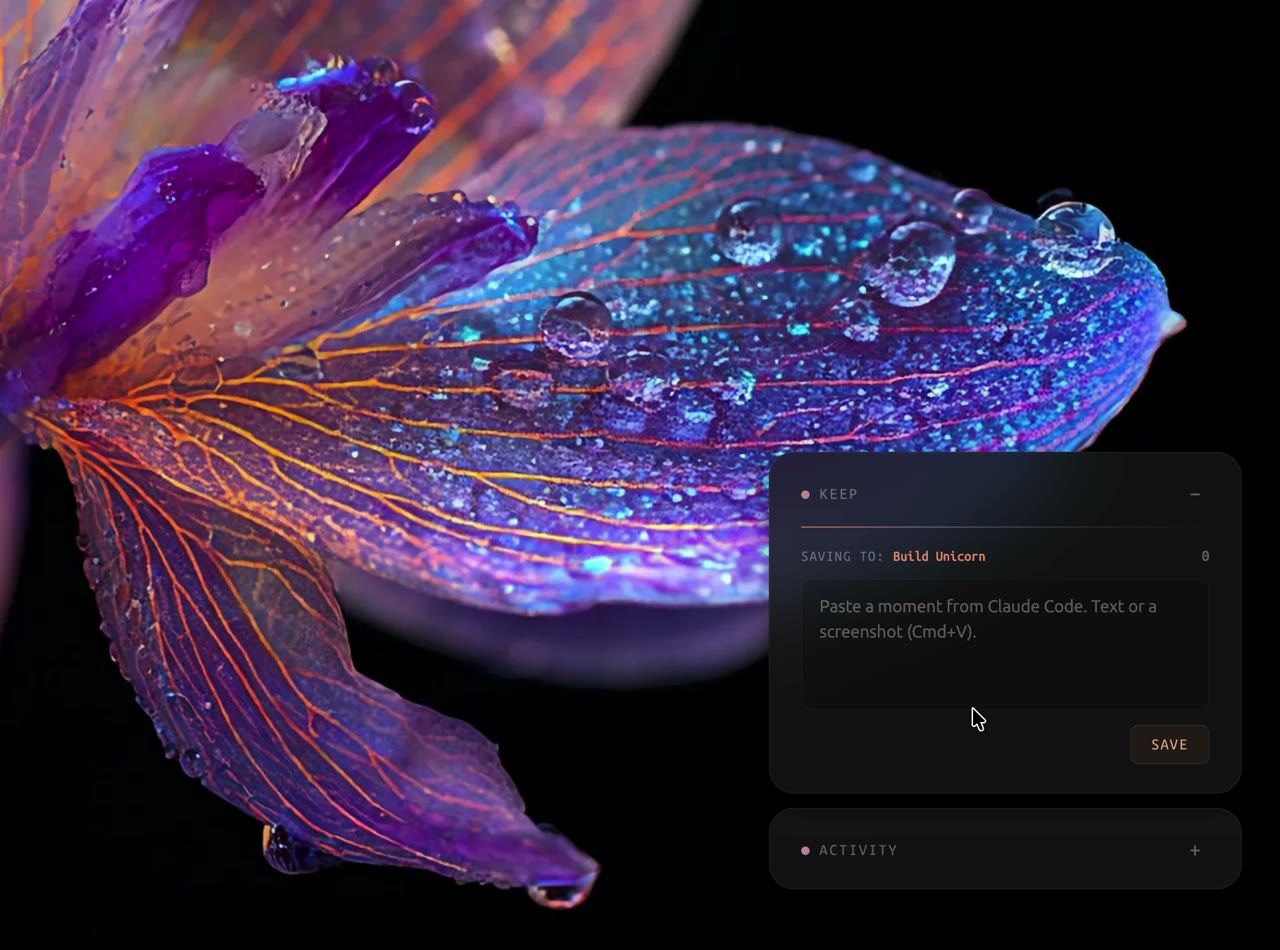
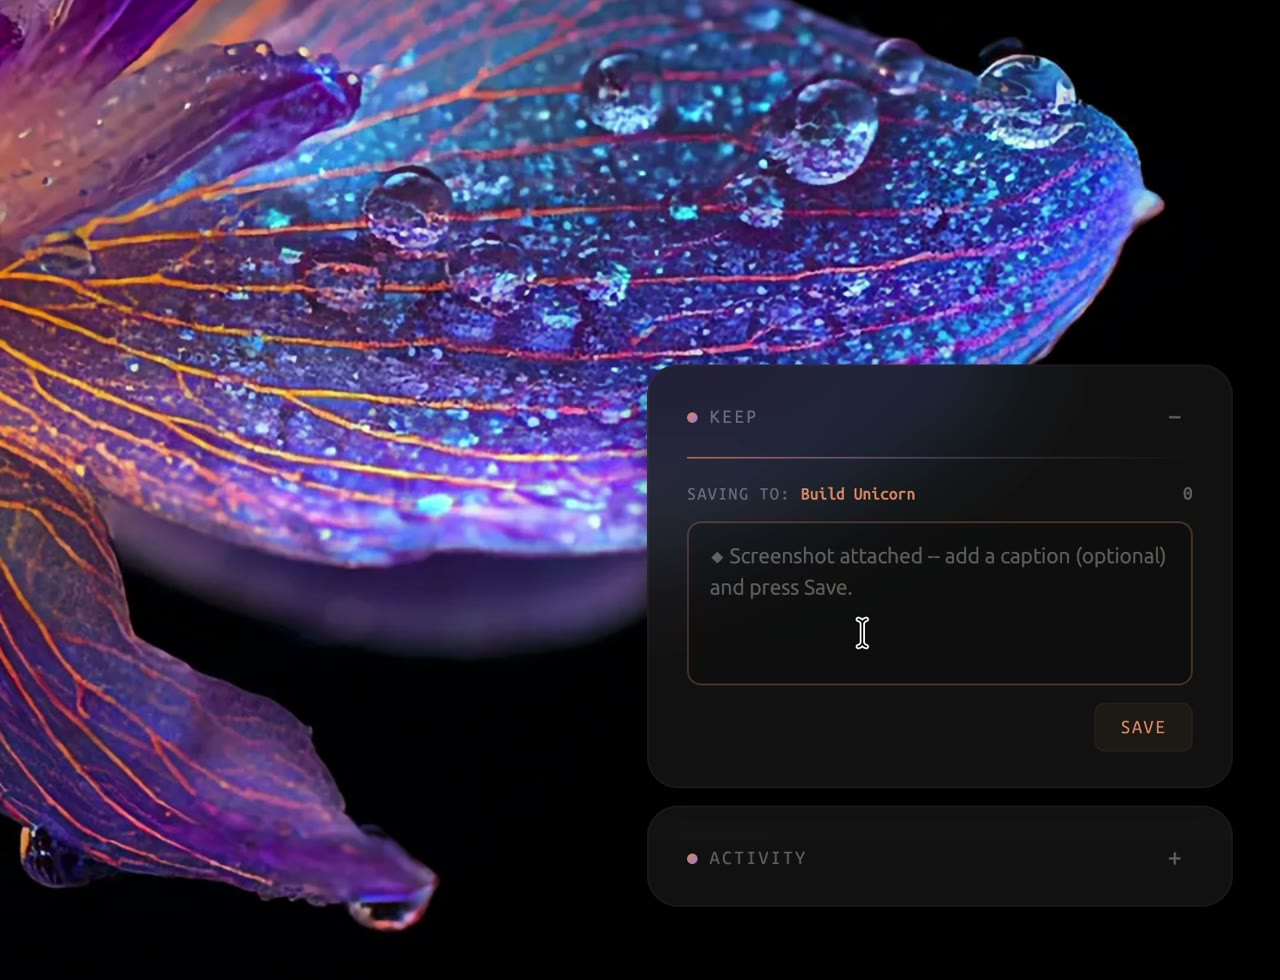
✢ Deck polish pass 3: slide 1 caret thinner + arrow hint smaller/dimmer (less attention); slide 7 keep-panel shifted down to show more bottom; slide 8 keep tighter on bottom-right + first 4s trimmed; slide 9 commits video pushed to focus the bottom

diff --git a/deck/index.html b/deck/index.html
@@ -106,10 +106,10 @@
   .reveal .slide-number{ background:transparent!important; color:var(--t3);
        font-family:var(--f); font-size:13px; right:26px; bottom:20px; }
   .kbd{ position:fixed; left:0; right:0; bottom:24px; text-align:center; z-index:60;
-        font-family:var(--f); font-size:13px; letter-spacing:0.22em; text-transform:uppercase;
+        font-family:var(--f); font-size:11px; letter-spacing:0.2em; text-transform:uppercase;
         color:var(--t3); pointer-events:none; opacity:0; transition:opacity .45s ease; }
   .kbd .hl{ color:var(--peach); }
-  .caret{ display:inline-block; width:0.46ch; height:0.78em; background:var(--peach);
+  .caret{ display:inline-block; width:0.24ch; height:0.78em; background:var(--peach);
         margin-left:12px; vertical-align:-0.02em; border-radius:1px;
         animation:caretblink 1.06s steps(1) infinite; }
   @keyframes caretblink{ 50%{ opacity:0; } }
@@ -221,7 +221,7 @@
         <p class="wq acc">✷ a Design Engineer, anonymized</p>
         <blockquote class="pull">&ldquo;I keep a vault. I treat it as my long term memory. If you have worked with AI at all, you know <span class="grad">context is the huge thing</span>.&rdquo;</blockquote>
       </div>
-      <figure class="m img"><img src="media/keep-panel.jpg" alt="" style="object-position:50% 0%" /></figure>
+      <figure class="m img"><img src="media/keep-panel.jpg" alt="" style="object-position:50% 34%" /></figure>
     </div></div>
   </section>
 
@@ -242,7 +242,7 @@
     <div class="s">
       <p class="wq acc">✺ the response</p>
       <h2>Unicorn. A mirror, <em>not a dashboard</em>.</h2>
-      <figure class="m" style="height:392px"><video id="commits-v" src="media/commits-zoom.mp4" poster="media/commits-zoom.jpg" data-autoplay muted loop playsinline preload="metadata"></video><button class="snd" data-v="commits-v" type="button" aria-pressed="false"><svg viewBox="0 0 24 24" fill="none" stroke="currentColor" stroke-width="2" stroke-linecap="round" stroke-linejoin="round"><path d="M11 5 6 9H2v6h4l5 4z"/><path d="M15.5 8.5a5 5 0 0 1 0 7"/><path d="M19 5a9 9 0 0 1 0 14"/></svg><span>audio</span></button></figure>
+      <figure class="m" style="height:392px"><video id="commits-v" src="media/commits-zoom.mp4" poster="media/commits-zoom.jpg" data-autoplay muted loop playsinline preload="metadata" style="object-position:50% 82%"></video><button class="snd" data-v="commits-v" type="button" aria-pressed="false"><svg viewBox="0 0 24 24" fill="none" stroke="currentColor" stroke-width="2" stroke-linecap="round" stroke-linejoin="round"><path d="M11 5 6 9H2v6h4l5 4z"/><path d="M15.5 8.5a5 5 0 0 1 0 7"/><path d="M19 5a9 9 0 0 1 0 14"/></svg><span>audio</span></button></figure>
       <p class="cap"><em>commits</em>, played back as music</p>
     </div>
   </section>
@@ -330,7 +330,7 @@
     });
   });
   var kbd=document.getElementById('kbd');
-  function kbdShow(){ if(kbd) kbd.style.opacity = (Reveal.getIndices().h===0 ? '1' : '0'); }
+  function kbdShow(){ if(kbd) kbd.style.opacity = (Reveal.getIndices().h===0 ? '0.5' : '0'); }
   Reveal.on('ready', kbdShow); Reveal.on('slidechanged', kbdShow);
 </script>
 </body>